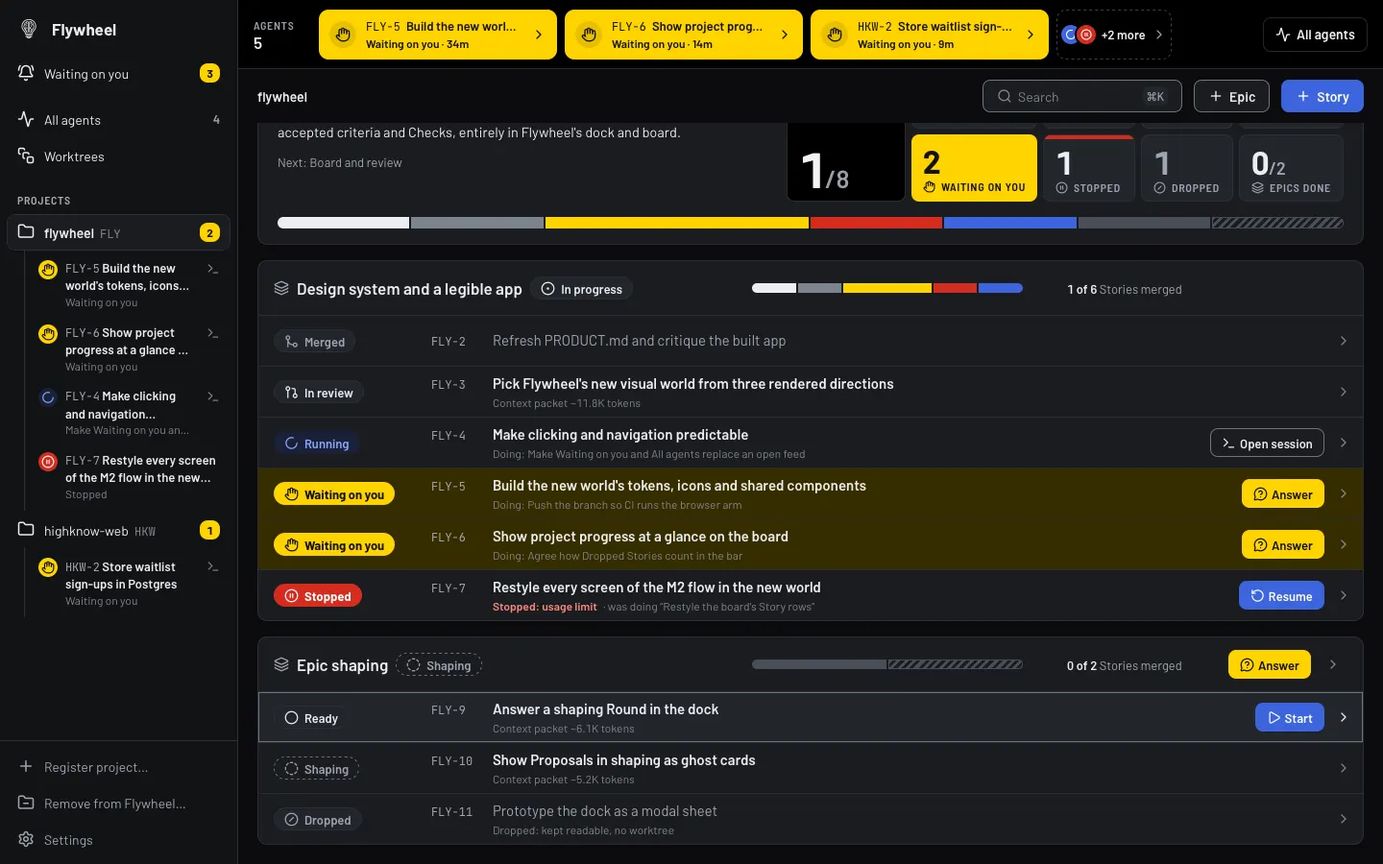
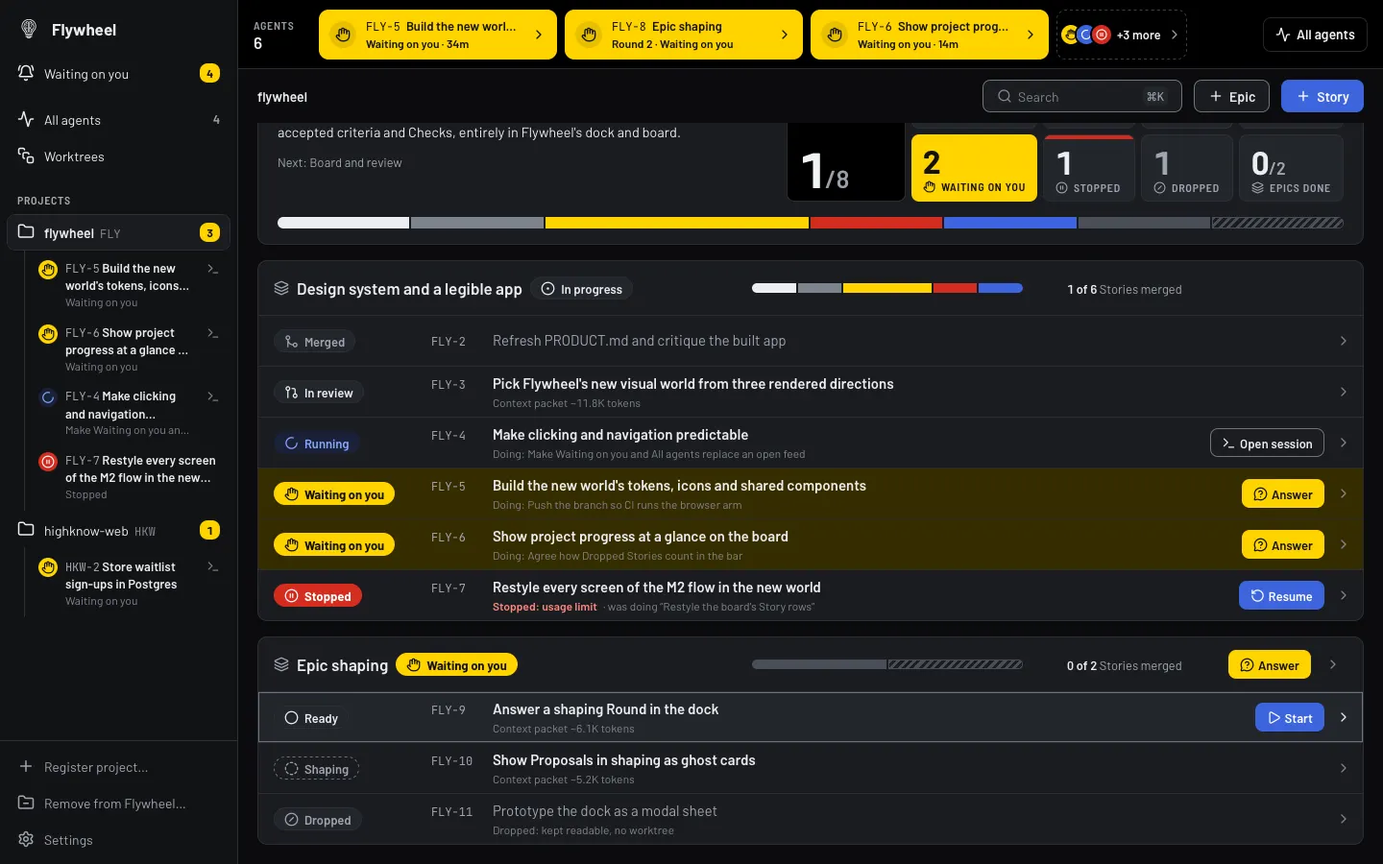
docs: a Round outliving its session in DESIGN.md and the critique, with two new screens and five refreshed

diff --git a/packages/desktop/src/test/critique/m2-fixture.ts b/packages/desktop/src/test/critique/m2-fixture.ts
@@ -26,6 +26,7 @@ import type {
   StoryDto,
   StoryStateCountsDto,
   TaskDto,
+  WaitingRoundDto,
 } from "../../adapters/tauri";
 import type { Project } from "../../board/useBoardQuery";
 
@@ -370,6 +371,29 @@ function progressOf(projectId: string, milestoneId: string): MilestoneProgressDt
   };
 }
 
+/**
+ * Whether Epic #59's shaping session is still live (issue #124). With it live, Round 2 is Waiting on you: its
+ * lamp is lit, it counts in Waiting on you and the Epic card offers Answer. Killed, the Round is still open
+ * with its answer kept, the Epic reads Shaping Round waiting and offers Continue shaping.
+ */
+let shapingSessionLive = true;
+
+/** Kill (or revive) Epic #59's shaping session before the first render. */
+export function setShapingSessionLive(live: boolean): void {
+  shapingSessionLive = live;
+}
+
+/** Round 2 of Epic #59 while its session is held on it: the lamp and the queue entry (issue #124). */
+function waitingRounds(): WaitingRoundDto[] {
+  if (!shapingSessionLive) return [];
+  return [{
+    roundId: "r-2", roundNumber: 2, stageKind: "challenge_spec", sessionId: "ses-shape-8",
+    projectId: "p-fly", projectName: "flywheel", projectKeyPrefix: "FLY",
+    epicId: "e-59", epicKey: "FLY-8", epicTitle: "Epic shaping",
+    waitingSince: ago(1800), answered: 1, questions: 4,
+  }];
+}
+
 /** Epic #59 in its Challenge Stage (issue #123): Round 1 answered, Round 2 waiting on the developer with
  * one of its four questions answered. */
 function shapingOf(epicId: string): EpicShapingDto | null {
@@ -412,7 +436,7 @@ function shapingOf(epicId: string): EpicShapingDto | null {
         ],
       },
       {
-        id: "r-2", stageId: "st-1", stageKind: "challenge_spec", number: 2, state: "open", waitingOnYou: true,
+        id: "r-2", stageId: "st-1", stageKind: "challenge_spec", number: 2, state: "open", waitingOnYou: shapingSessionLive,
         note: "With the surface settled, this Round tightens the scope: how answers are given, what Accept all may touch, and how the Stage ends.",
         postedAt: ago(1800), answeredAt: null,
         questions: [
@@ -439,7 +463,13 @@ export function answer(cmd: string, args: Args): unknown {
     case "project_list": return PROJECTS;
     case "milestone_list": return MILESTONES[arg(args, "projectId")] ?? [];
     case "epic_list": return EPICS[arg(args, "milestoneId")] ?? [];
-    case "milestone_progress": return progressOf(arg(args, "projectId"), arg(args, "milestoneId"));
+    case "milestone_progress": {
+      const progress = progressOf(arg(args, "projectId"), arg(args, "milestoneId"));
+      if (!progress) return null;
+      // The Epic's attention follows its shaping session (issue #124).
+      const attention = shapingSessionLive ? "waiting_on_you" : "round_waiting";
+      return { ...progress, epics: progress.epics.map((e) => (e.epicId === "e-59" ? { ...e, attention } : e)) };
+    }
     case "story_list_for_project": return STORIES.filter((s) => s.projectId === arg(args, "projectId"));
     case "story_list": return STORIES.filter((s) => s.epicId === arg(args, "epicId"));
     case "story_get": return storyById(arg(args, "storyId")) ?? null;
@@ -455,12 +485,15 @@ export function answer(cmd: string, args: Args): unknown {
     case "story_session_summaries": return SUMMARIES[arg(args, "storyId")] ?? [];
     case "story_latest_session": return RUNS[arg(args, "storyId")]?.[0]?.id ?? null;
     case "board_blocked_summary": {
-      const ids = arg(args, "projectId") === "p-fly" ? ["s-5", "s-6"] : ["s-h2"];
-      return { blockedStoryIds: ids, blockedCount: ids.length };
+      const fly = arg(args, "projectId") === "p-fly";
+      const ids = fly ? ["s-5", "s-6"] : ["s-h2"];
+      const epics = fly && shapingSessionLive ? ["e-59"] : [];
+      return { blockedStoryIds: ids, waitingEpicIds: epics, blockedCount: ids.length + epics.length };
     }
     case "board_recovery_summary": return { recoveryStoryIds: [], recoveryCount: 0 };
     case "fleet_list": return { rows: FLEET_ROWS, totalRows: FLEET_ROWS.length, visibleCostUsd: 9.3 };
     case "fleet_blocked_queue": return QUEUE;
+    case "fleet_waiting_rounds": return waitingRounds();
     case "session_log_window": {
       const entries = LOGS[arg(args, "sessionId")] ?? [];
       return window_(entries, Number(args?.offset ?? 0), Number(args?.limit ?? 50));
@@ -473,7 +506,7 @@ export function answer(cmd: string, args: Args): unknown {
     case "git_facts": return null;
     case "proposal_list_pending": return [];
     case "criterion_list": return CRITERIA[arg(args, "storyId")] ?? [];
-    case "epic_shaping_session": return arg(args, "epicId") === "e-59" ? "ses-shape-8" : null;
+    case "epic_shaping_session": return arg(args, "epicId") === "e-59" && shapingSessionLive ? "ses-shape-8" : null;
     case "epic_shaping_rounds": return shapingOf(arg(args, "epicId"));
     default: return null;
   }

diff --git a/packages/desktop/src/test/critique/m2-flow.critique.browser.test.tsx b/packages/desktop/src/test/critique/m2-flow.critique.browser.test.tsx
@@ -21,7 +21,7 @@ import { clearMocks } from "@tauri-apps/api/mocks";
 import { queryClient } from "../../adapters/queryClient";
 import { resetUiState } from "../../state/uiStore";
 import App from "../../App";
-import { installFixtureBackend } from "./m2-fixture";
+import { installFixtureBackend, setShapingSessionLive } from "./m2-fixture";
 
 const SCHEME = import.meta.env.VITE_CRITIQUE_SCHEME as string | undefined;
 const OUT = "../../../../../target/critique-2026-10";
@@ -56,6 +56,7 @@ describe.runIf(Boolean(SCHEME))("M2 flow screens", () => {
   beforeEach(() => {
     resetUiState();
     queryClient.clear();
+    setShapingSessionLive(true);
     installFixtureBackend();
   });
   afterEach(() => {
@@ -299,6 +300,22 @@ describe.runIf(Boolean(SCHEME))("M2 flow screens", () => {
     } finally {
       await page.viewport(1440, 900);
     }
+  });
+
+  it("31 board: a killed shaping session leaves Shaping Round waiting and Continue shaping (issue #124)", async () => {
+    setShapingSessionLive(false);
+    await boardReady();
+    const resume = await screen.findByRole("button", { name: "Continue shaping FLY-8 Epic shaping" });
+    resume.scrollIntoView({ block: "center" });
+    await shot("31-board-epic-continue-shaping");
+  });
+
+  it("32 Epic shaping: the open Round with no live session keeps its answers, Continue shaping on its band (issue #124)", async () => {
+    setShapingSessionLive(false);
+    await boardReady();
+    await click("Open FLY-8 Epic shaping and its Rounds");
+    await screen.findByRole("region", { name: /Round 2/ });
+    await shot("32-epic-shaping-continue");
   });
 
   it("16 navigation: picking a project while the fleet is open", async () => {

diff --git a/packages/desktop/src/shell/AndonStrip.tsx b/packages/desktop/src/shell/AndonStrip.tsx
@@ -41,7 +41,7 @@ export interface LampData {
 const LAMP_WIDTH = 248;
 const LAMP_GAP = 8;
 /** The "+n more" lamp is narrower: it carries a count and a word. */
-const MORE_WIDTH = 120;
+const MORE_WIDTH = 136;
 
 function isLive(row: FleetRowDto): boolean {
   return row.runStatus === "running" || row.runStatus === "blocked";
@@ -298,7 +298,7 @@ export function AndonStrip() {
                   aria-label={`${hidden} more: ${hiddenTones.map((tone) => TONE_WORD[tone]).join(", ")}. Open All agents`}
                   onClick={() => setFleetSurface({ view: "fleet" })}
                   style={{ width: MORE_WIDTH }}
-                  className="flex h-13 items-center justify-center gap-1.5 rounded-lg border border-dashed border-white/25 text-small font-semibold text-strip-foreground transition-colors duration-(--duration-state) ease-(--ease) hover:bg-white/10 focus-visible:outline-strip-foreground"
+                  className="flex h-13 items-center justify-center gap-1.5 rounded-lg border border-dashed whitespace-nowrap border-white/25 text-small font-semibold text-strip-foreground transition-colors duration-(--duration-state) ease-(--ease) hover:bg-white/10 focus-visible:outline-strip-foreground"
                 >
                   {/* What the folded lamps are, by their bulbs: never a stateless count. */}
                   <span aria-hidden="true" className="flex -space-x-1">

diff --git a/packages/desktop/src/session/__tests__/tool-verbs.test.ts b/packages/desktop/src/session/__tests__/tool-verbs.test.ts
@@ -203,10 +203,10 @@ describe("describeToolCall: board tools by their meaning", () => {
   });
 
   // Issue #124: a later session picks the open Round up and waits on it like round_post did.
-  it("reads round_wait as Picked up the open Round, waiting on your answers, then the Round it came back with", () => {
+  it("reads round_wait as Resumed Round, waiting on your answers, then the Round it came back with", () => {
     expect(describeToolCall({ toolName: `${BOARD}round_wait`, input: {} })).toMatchObject({
       kind: "question",
-      verb: "Picked up the open Round",
+      verb: "Resumed Round",
       liveVerb: "Waiting on your answers",
       target: "",
       metrics: [],
@@ -219,7 +219,7 @@ describe("describeToolCall: board tools by their meaning", () => {
       ],
     });
     expect(describeToolCall({ toolName: `${BOARD}round_wait`, input: {}, output })).toMatchObject({
-      verb: "Picked up Round 2",
+      verb: "Resumed Round 2",
       metrics: [{ text: "2 answered · 2 recommended", tone: "neutral" }],
     });
   });

diff --git a/packages/desktop/src/session/toolVerbs.ts b/packages/desktop/src/session/toolVerbs.ts
@@ -205,7 +205,7 @@ function describeBoardTool(tool: string, call: ToolCallInput): ToolCallDescripti
       return {
         ...base,
         kind: "question",
-        verb: posted ? `Posted Round${number}` : number ? `Picked up Round${number}` : "Picked up the open Round",
+        verb: posted ? `Posted Round${number}` : `Resumed Round${number}`,
         liveVerb: "Waiting on your answers",
         target: !posted
           ? ""

diff --git a/DESIGN.md b/DESIGN.md
@@ -299,7 +299,7 @@ The composition: a 72px andon strip across the content top on every screen, then
 - A Story row, a sidebar session, a Needs-you card's title or a lamp opens the Story view, never the session.
 - Open session / Open feed (labelled, terminal icon) opens that session's feed.
 - Answer / Allow once on a Waiting-on-you item opens the feed scrolled to the open request.
-- Start and Resume keep you where you are; the row turns Running. Shape, in the heading of an Epic card while the Epic is in Shaping (outline, over the rows' actions), keeps you there too and turns into Open session while its shaping session is live, and into Answer (attention) while that session waits on a Round.
+- Start and Resume keep you where you are; the row turns Running. Shape, in the heading of an Epic card while the Epic is in Shaping (outline, over the rows' actions), keeps you there too and turns into Open session while its shaping session is live, and into Answer (attention) while that session waits on a Round. Once the Epic has Rounds and no live session, it is Continue shaping (outline, `rotate-ccw`, like Resume), which keeps you where you are and starts a fresh session that picks the open Round up.
 - An Epic in Shaping carries its own chevron at the end of its card's heading: it opens the Epic's shaping view (the Epic card beside the Round dock), as Answer does. Neither opens the session.
 - Back, Cmd-[ or the Story panel's close returns to the previous place, not "to the board".
 
@@ -366,17 +366,17 @@ The live agent on a Story (`board/StoryView.tsx`), under its title card while a 
 The project's Roadmap at the top of the board (`board/RoadmapStrip.tsx`, #131): one card headed "Roadmap" with the Milestone count and an outline "+ Milestone", then one 36px row per Milestone in Roadmap order. A row is a move handle (`grip-vertical`, subtle ink), the name at row size (semibold; regular in secondary ink once Done or Dropped), the state pill at meta size, the Exit test on one line in secondary ink ("Exit test not written yet" in meta ink), a `flag` and "Current" on the Current Milestone, and the trailing chevron. The columns are fixed so every row lines up. Clicking a row picks that Milestone for the header and roster below; the picked row takes the running tint across its whole width and a running-ink chevron. A Done or Dropped Milestone has no handle and does not drag: it keeps its place. A row drags natively; while it does, it fades to half and a 2px ring-coloured line marks where it lands (above the target when moving up, below when moving down). The keyboard moves it with the arrow keys on its handle or Alt and an arrow on the row, keeps the focus on the handle, and announces the new position. "+ Milestone" opens an inline one-line field at the foot of the card (Add Milestone filled, Cancel ghost, Escape closes), never a dialog.
 
 ### Round Dock
-The Epic's shaping view (`shaping/EpicShapingView.tsx`, #123) is the Epic card beside the dock: from 1280px side by side (card 5 parts, dock 7), below that stacked in reading order: the current Round, the Epic card, then the earlier Rounds (a Sheet, as direction.md first planned, would hide the Epic being shaped behind the questions about it). The Epic card is a title card (`layers`, the key in code face, the state pill, the title at title size, then the Stage and "Stage n of 3" in secondary ink) over the four spec fields, each a meta-size label with a ghost Edit and its prose at a 68ch measure ("Not written yet" in meta ink); editing opens a textarea in place with Save (outline) and Cancel. The dock (`shaping/RoundDock.tsx`) is one card per Round, newest first. A Round the session is held on wears the request card's frame: the 2px attention edge and the yellow band (`hand`, "Round n", "Waiting on you"); any other Round has the inset band and a 1px edge. Under the note, a bar that stays on screen while the questions scroll carries the region's one filled action, Accept all recommended (`check-check`), the tabular "n of m answered" and a hint. Each open question (`shaping/QuestionCard.tsx`) reads: the ink number chip inline before the question at row size (the title is kept for the folded line, never set above the question as an eyebrow), the grounding line in meta ink behind `file-text`, then the recommended answer already filled in, a running-tint box with a 1px primary edge, "Recommended" in running ink behind a check, the answer semibold and its "Because" line in secondary ink; then Accept (outline) and Answer differently (ghost), which opens a textarea on the recommendation, with the recommendation and its reason kept above it in running ink, Send answer, Cancel and a ⌘↩ hint. Not yet built (#124): a Round waiting on you does not light a lamp or count in the sidebar and Needs you; only the dock and the Epic card's Answer say it. An answered question folds to one 44px line: a check, a quiet number chip, the title, the answer in secondary ink, whose answer it was ("Recommended" or "Your answer") in meta ink, and Change (ghost) while the Round is open.
+The Epic's shaping view (`shaping/EpicShapingView.tsx`, #123) is the Epic card beside the dock: from 1280px side by side (card 5 parts, dock 7), below that stacked in reading order: the current Round, the Epic card, then the earlier Rounds (a Sheet, as direction.md first planned, would hide the Epic being shaped behind the questions about it). The Epic card is a title card (`layers`, the key in code face, the state pill, the title at title size, then the Stage and "Stage n of 3" in secondary ink) over the four spec fields, each a meta-size label with a ghost Edit and its prose at a 68ch measure ("Not written yet" in meta ink); editing opens a textarea in place with Save (outline) and Cancel. The dock (`shaping/RoundDock.tsx`) is one card per Round, newest first. A Round the session is held on wears the request card's frame: the 2px attention edge and the yellow band (`hand`, "Round n", "Waiting on you"); any other Round has the inset band and a 1px edge. Under the note, a bar that stays on screen while the questions scroll carries the region's one filled action, Accept all recommended (`check-check`), the tabular "n of m answered" and a hint. Each open question (`shaping/QuestionCard.tsx`) reads: the ink number chip inline before the question at row size (the title is kept for the folded line, never set above the question as an eyebrow), the grounding line in meta ink behind `file-text`, then the recommended answer already filled in, a running-tint box with a 1px primary edge, "Recommended" in running ink behind a check, the answer semibold and its "Because" line in secondary ink; then Accept (outline) and Answer differently (ghost), which opens a textarea on the recommendation, with the recommendation and its reason kept above it in running ink, Send answer, Cancel and a ⌘↩ hint. A Round outlives its session (#124): an open Round no live session is held on keeps the inset band, never yellow, and the dock still takes every answer; the band reads "No live session: your answers are kept" with Continue shaping (outline) at its end, or, while a fresh session reads the Rounds before its `round_wait` takes this one over, "The agent is reading your answers and picks this Round up". The shaping view's header then carries no control of its own: the band does. On the board the Epic card's state pill reads Waiting on you (attention) while a live session is held on a Round, and Shaping Round waiting (neutral, `circle-dashed`) while a Round is open with no live session. An answered question folds to one 44px line: a check, a quiet number chip, the title, the answer in secondary ink, whose answer it was ("Recommended" or "Your answer") in meta ink, and Change (ghost) while the Round is open.
 
 A spec change an agent proposes (`shaping/GhostCard.tsx`, #125) is a ghost of the field it would rewrite, drawn under that field's text on the Epic card, never in an inbox: a 1px dashed primary edge on the running tint (the recommended answer's solid edge, made provisional), "Proposed Scope" in running ink behind `circle-dashed`, the agent's whole new text at the field's 68ch measure, its "Why:" line in secondary ink, then Accept (outline), Amend (ghost) and Reject (ghost). Amend opens a textarea on the proposed text with Accept edit (outline), Cancel and a ⌘↩ hint: editing and accepting are one act. Reject opens a one-line "Why not? (optional)" field beside Reject (outline) and Cancel. A rejected spec change is decided, so it loses the dashed edge and shrinks to two plain lines with no ground: `ban`, "Rejected" and the text struck through in secondary ink, then "Your reason: …" in meta ink. Reject always wears `ban`; `x` only ever means Cancel. Amend keeps the agent's "Why:" line above the textarea, and Cancel returns the focus to the button that opened the mode; once decided, the focus lands on the field's Edit. No blue fill and no yellow: a pending Proposal never holds the agent, so it is never Waiting on you.
 
 ### Feed Rows
-A tool call is one line (`session/FeedRow.tsx`, worded by `session/toolVerbs.ts`): the disclosure chevron, the kind's Lucide icon, a plain verb in a 108px semibold column (Read, Edited, Wrote, Ran, Searched; board tools by their meaning: Added Task, Finished Task, Ran Checks, Handed off, Posted Round, which reads "Waiting on your answers" while it is held), what it acted on (code face for paths and commands, reading face for Task titles), then the metrics column on the right in meta ink, tabular: lines, `+added −removed`, "done" in ink for a clean command or "exit n" for a failed one, Check results, and the duration. A failed command is neutral ink beside `circle-x`; only a failed Check is red. Search targets are quoted, with the place searched ("“Dropped” in GLOSSARY.md"); a tool Flywheel has no verb for reads "Used" and its name in words. A call in flight reads in the progressive ("Running"), the loader leading its clock in running ink. No raw `mcp__` tool name is printed anywhere outside View raw.
+A tool call is one line (`session/FeedRow.tsx`, worded by `session/toolVerbs.ts`): the disclosure chevron, the kind's Lucide icon, a plain verb in a 108px semibold column (Read, Edited, Wrote, Ran, Searched; board tools by their meaning: Added Task, Finished Task, Ran Checks, Handed off, Posted Round, and Resumed Round n for `round_wait`, each of the two reading "Waiting on your answers" while it is held), what it acted on (code face for paths and commands, reading face for Task titles), then the metrics column on the right in meta ink, tabular: lines, `+added −removed`, "done" in ink for a clean command or "exit n" for a failed one, Check results, and the duration. A failed command is neutral ink beside `circle-x`; only a failed Check is red. Search targets are quoted, with the place searched ("“Dropped” in GLOSSARY.md"); a tool Flywheel has no verb for reads "Used" and its name in words. A call in flight reads in the progressive ("Running"), the loader leading its clock in running ink. No raw `mcp__` tool name is printed anywhere outside View raw.
 
 ### Navigation
 - **Sidebar:** the `sidebar` ground behind a right edge; the current project or Story is a raised `sidebar-primary` card, hover is `sidebar-accent`; group names in the condensed label; session sub-items indent behind a 1px rule.
 - **Breadcrumb:** names the project, then the Story, then the session; every crumb but the last goes to its place.
-- **Andon strip:** one lamp per live Story session across the top of every screen, in every project: lit yellow (lamp-black ink, the hand) while it is Waiting on you, graphite with a blue bulb while its agent works, graphite with a red bulb while its Story is Stopped. Each lamp names the Story key and title and, below, what it waits on, what it is doing or why it stopped. Order: Waiting on you (longest first), Running, Stopped. Lamps that do not fit fold into a dashed "+n more" lamp that opens All agents; with none, the strip says "No agent running" and keeps its height. Clicking a lamp opens its Story, never its session; the current Story's lamp carries the strip-ink outline.
+- **Andon strip:** one lamp per live Story session across the top of every screen, in every project: lit yellow (lamp-black ink, the hand) while it is Waiting on you, graphite with a blue bulb while its agent works, graphite with a red bulb while its Story is Stopped. Each lamp names the Story key and title and, below, what it waits on, what it is doing or why it stopped. A shaping session held on a Round lights a lamp of its own among the waiting ones (#124): the Epic's key and title, "Round n · Waiting on you", and a click opens the Epic's shaping view; the same Round counts in the sidebar's Waiting on you and is listed in its queue, after the requests, in the request card's frame with Answer. Order: Waiting on you (longest first), Running, Stopped. Lamps that do not fit fold into a dashed "+n more" lamp that opens All agents; with none, the strip says "No agent running" and keeps its height. Clicking a lamp opens its Story, never its session; the current Story's lamp carries the strip-ink outline.
 
 ### Icons
 Lucide (`lucide-react`, ISC), drawn at a 2px stroke: 16px by default, 15px inside pills, 18px in navigation. Every icon sits next to its word and is decorative; an icon alone needs a tooltip and an accessible label. Glyphs are imported by name, never the whole set.

diff --git a/docs/design/critique-2026-10.md b/docs/design/critique-2026-10.md
@@ -115,7 +115,7 @@ and "n of m Stories merged" (each Epic appears once). See 01 above and 17 below.
 | 10 | Feed, the agent's question | ![](critique-2026-10/after/10-feed-question-light.webp) | ![](critique-2026-10/after/10-feed-question-dark.webp) |
 | 11 | Feed, permission request | ![](critique-2026-10/after/11-feed-permission-request-light.webp) | ![](critique-2026-10/after/11-feed-permission-request-dark.webp) |
 | 12 | Feed of a handed-off session | ![](critique-2026-10/after/12-feed-handed-off-light.webp) | ![](critique-2026-10/after/12-feed-handed-off-dark.webp) |
-| 13 | Waiting on you | ![](critique-2026-10/after/13-waiting-on-you-queue-light.webp) | ![](critique-2026-10/after/13-waiting-on-you-queue-dark.webp) |
+| 13 | Waiting on you, a shaping Round listed after the requests (#124) | ![](critique-2026-10/after/13-waiting-on-you-queue-light.webp) | ![](critique-2026-10/after/13-waiting-on-you-queue-dark.webp) |
 | 14 | All agents | ![](critique-2026-10/after/14-fleet-light.webp) | ![](critique-2026-10/after/14-fleet-dark.webp) |
 | 15 | A project chosen while a feed is open | ![](critique-2026-10/after/15-nav-project-click-keeps-feed-light.webp) | ![](critique-2026-10/after/15-nav-project-click-keeps-feed-dark.webp) |
 | 16 | A project chosen while All agents is open | ![](critique-2026-10/after/16-nav-project-click-keeps-fleet-light.webp) | ![](critique-2026-10/after/16-nav-project-click-keeps-fleet-dark.webp) |
@@ -128,11 +128,13 @@ and "n of m Stories merged" (each Epic appears once). See 01 above and 17 below.
 | 23 | Epic shaping: the Round dock waiting on you beside the Epic card, recommended answers pre-filled (#123) | ![](critique-2026-10/after/23-epic-shaping-round-dock-light.webp) | ![](critique-2026-10/after/23-epic-shaping-round-dock-dark.webp) |
 | 24 | Epic shaping: Answer differently opens on the recommendation (#123) | ![](critique-2026-10/after/24-epic-shaping-answer-differently-light.webp) | ![](critique-2026-10/after/24-epic-shaping-answer-differently-dark.webp) |
 | 25 | Epic shaping at the window's minimum width: the dock first (#123) | ![](critique-2026-10/after/25-epic-shaping-min-width-light.webp) | ![](critique-2026-10/after/25-epic-shaping-min-width-dark.webp) |
-| 26 | Board: an Epic whose shaping session waits on a Round offers Answer (#123) | ![](critique-2026-10/after/26-board-epic-answer-light.webp) | ![](critique-2026-10/after/26-board-epic-answer-dark.webp) |
+| 26 | Board: an Epic whose shaping session waits on a Round reads Waiting on you and offers Answer, and its Round lights a lamp (#123, #124) | ![](critique-2026-10/after/26-board-epic-answer-light.webp) | ![](critique-2026-10/after/26-board-epic-answer-dark.webp) |
 | 27 | Epic shaping: spec changes as ghost fields under the field each would rewrite, a rejected one struck through (#125) | ![](critique-2026-10/after/27-epic-shaping-ghost-fields-light.webp) | ![](critique-2026-10/after/27-epic-shaping-ghost-fields-dark.webp) |
 | 28 | Epic shaping: Amend opens the proposed text, accepted as edited in one act (#125) | ![](critique-2026-10/after/28-epic-shaping-amend-light.webp) | ![](critique-2026-10/after/28-epic-shaping-amend-dark.webp) |
 | 29 | Epic shaping: Reject asks for an optional reason (#125) | ![](critique-2026-10/after/29-epic-shaping-reject-reason-light.webp) | ![](critique-2026-10/after/29-epic-shaping-reject-reason-dark.webp) |
 | 30 | Epic shaping at the window's minimum width: rejecting a ghost field (#125) | ![](critique-2026-10/after/30-epic-shaping-ghost-min-width-light.webp) | ![](critique-2026-10/after/30-epic-shaping-ghost-min-width-dark.webp) |
+| 31 | Board: a killed shaping session leaves Shaping Round waiting and Continue shaping (#124) | ![](critique-2026-10/after/31-board-epic-continue-shaping-light.webp) | ![](critique-2026-10/after/31-board-epic-continue-shaping-dark.webp) |
+| 32 | Epic shaping: the open Round with no live session keeps its answers, Continue shaping on its band (#124) | ![](critique-2026-10/after/32-epic-shaping-continue-light.webp) | ![](critique-2026-10/after/32-epic-shaping-continue-dark.webp) |
 
 ## How the screens were rendered
 
